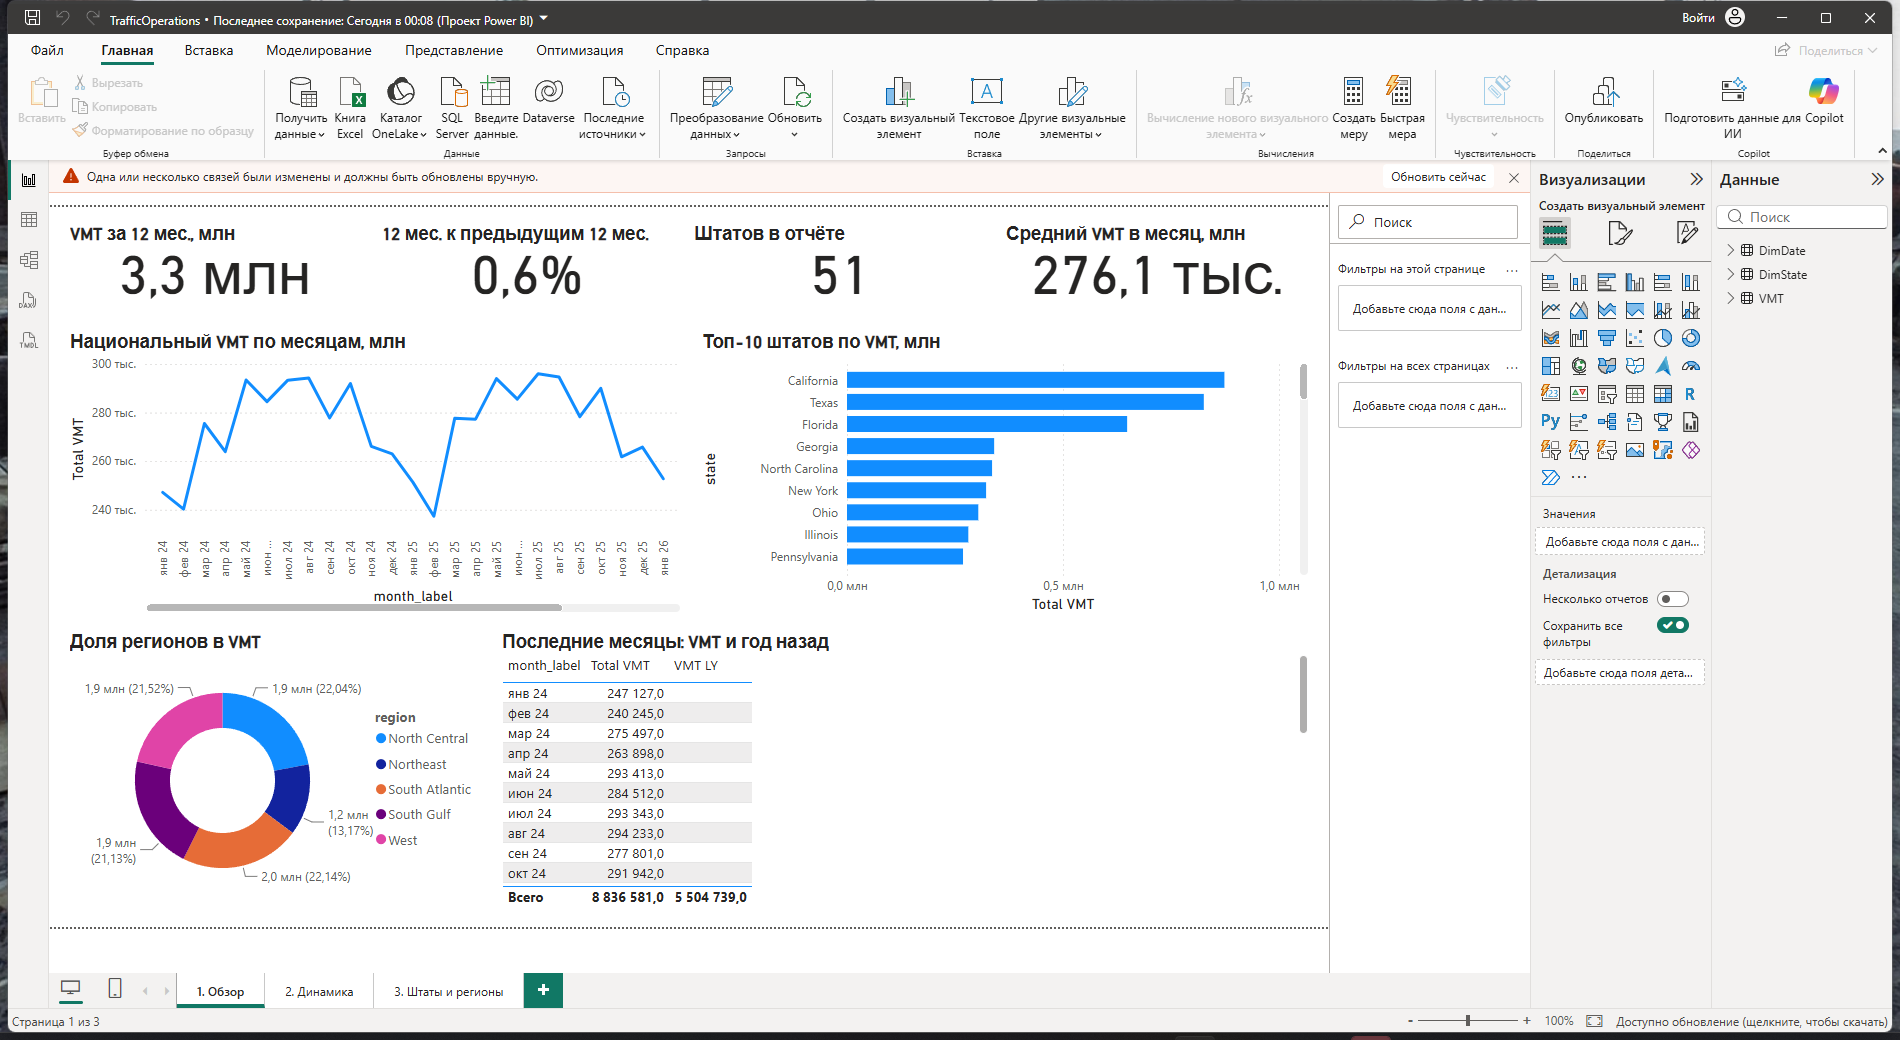
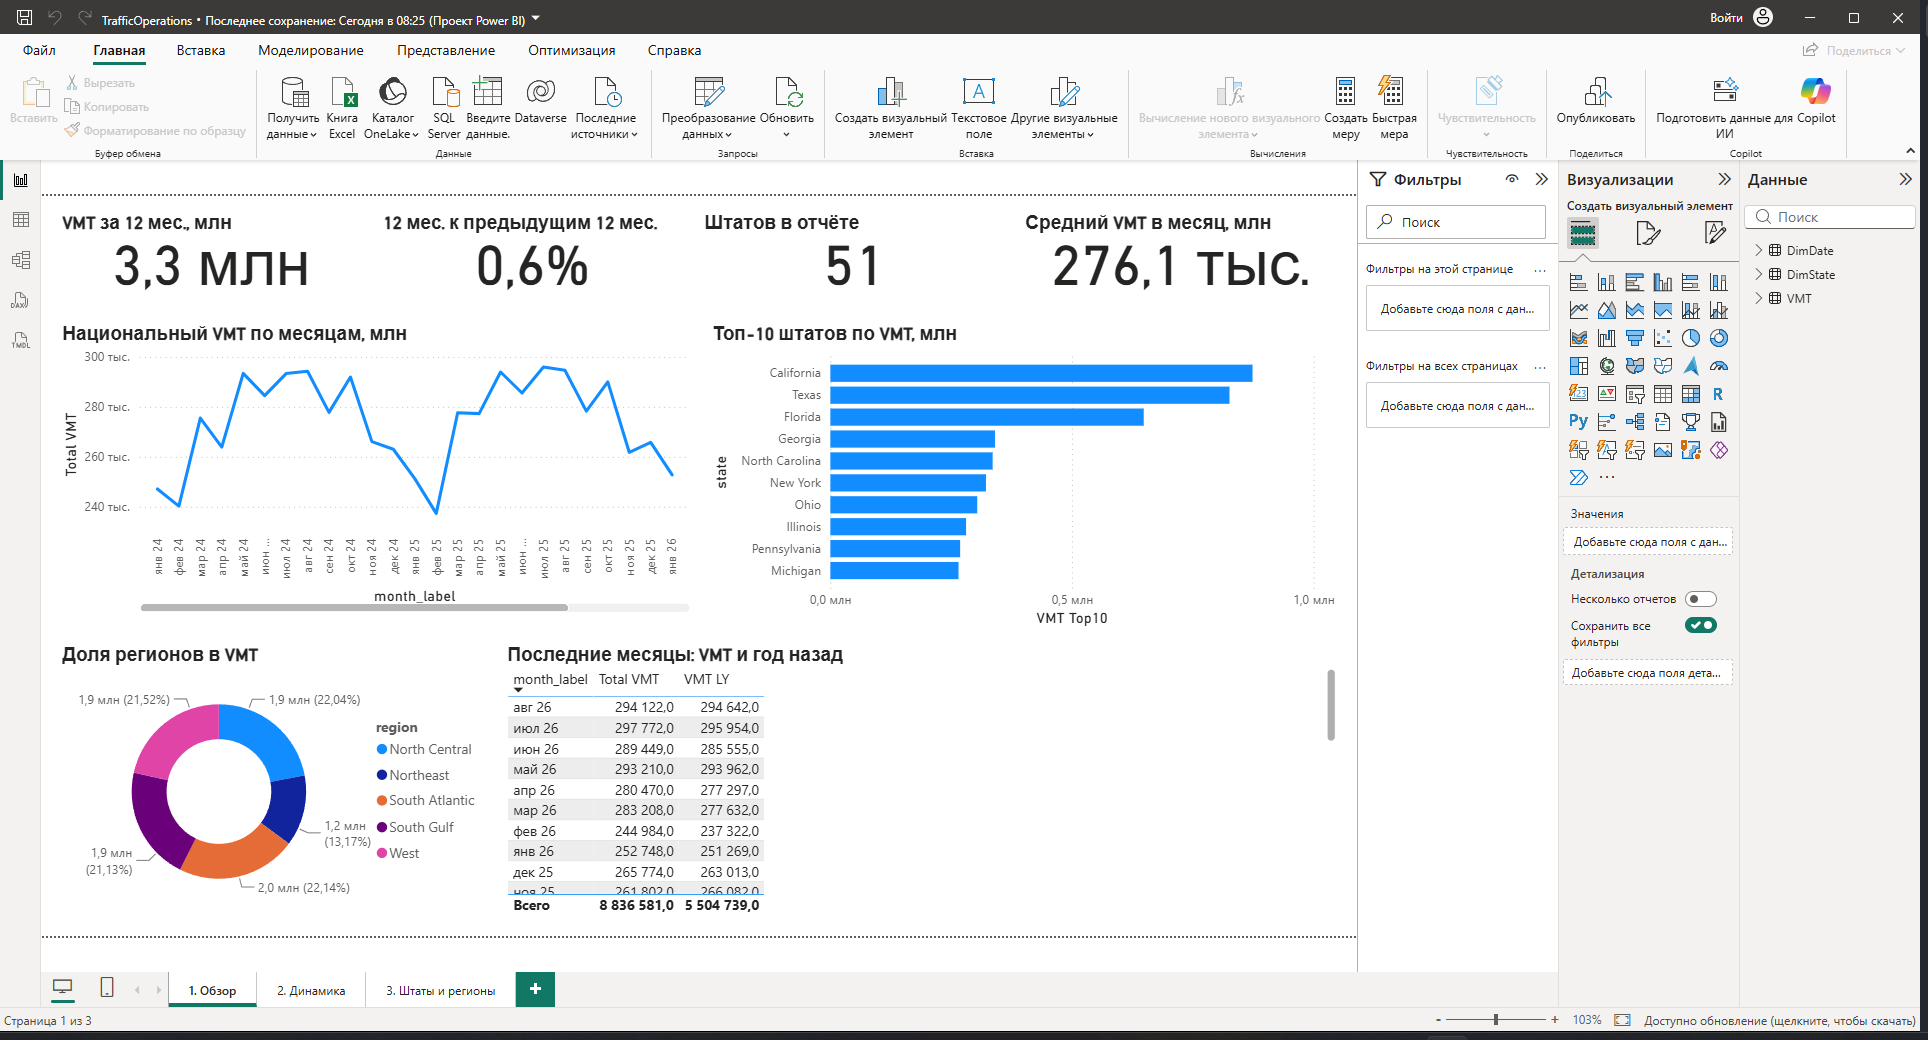
Fix model relationships, Top-10 visual, month ordering and rolling-window blanks

diff --git a/scripts/generate_pbip.py b/scripts/generate_pbip.py
@@ -150,7 +150,7 @@ def build_pages() -> list[dict]:
         [
             visual("v01", "card", 16, 16, 300, 92,
                    {"Values": [measure("VMT L12M", "VMT за 12 мес., млн")]},
-                   "VMT за последние 12 месяцев, млн"),
+                   "VMT за 12 мес., млн"),
             visual("v02", "card", 328, 16, 300, 92,
                    {"Values": [measure("VMT YoY %", "YoY, %", "0.0%")]},
                    "12 мес. к предыдущим 12 мес."),
@@ -163,17 +163,20 @@ def build_pages() -> list[dict]:
             visual("v05", "lineChart", 16, 124, 620, 286,
                    {"Category": [month_axis], "Y": [measure("Total VMT", "VMT, млн")]},
                    "Национальный VMT по месяцам, млн"),
-            visual("v06", "clusteredBarChart", 648, 124, 616, 286,
-                   {"Category": [state_axis], "Y": [measure("Total VMT", "VMT, млн")]},
-                   "Топ-10 штатов по VMT, млн", sort=sort_by("Total VMT"), show_legend=False),
-            visual("v07", "donutChart", 16, 424, 420, 280,
+            visual("v06", "clusteredBarChart", 648, 124, 616, 300,
+                   {"Category": [state_axis], "Y": [measure("VMT Top10", "VMT, млн")]},
+                   "Топ-10 штатов по VMT, млн", sort=sort_by("VMT Top10"), show_legend=False),
+            visual("v07", "donutChart", 16, 436, 420, 268,
                    {"Category": [region_axis], "Y": [measure("Total VMT", "VMT, млн")]},
                    "Доля регионов в VMT"),
-            visual("v08", "tableEx", 448, 424, 816, 280,
+            visual("v08", "tableEx", 448, 436, 816, 268,
                    {"Values": [col("DimDate", "month_label", active=False),
                                measure("Total VMT", "VMT, млн"),
                                measure("VMT LY", "VMT год назад, млн")]},
-                   "Последние месяцы: VMT и год назад", hide_total=True),
+                   "Последние месяцы: VMT и год назад", hide_total=True,
+                   sort={"field": {"Column": {"Expression": {"SourceRef": {"Entity": "DimDate"}},
+                                              "Property": "month_label"}},
+                         "direction": "Descending"}),
         ],
     )
 
@@ -207,7 +210,7 @@ def build_pages() -> list[dict]:
                                measure("Total VMT", "VMT, млн"),
                                measure("VMT YoY %", "YoY, %", "0.0%"),
                                measure("VMT Share", "Доля в VMT", "0.0%")]},
-                   "Штаты: объём, динамика, доля"),
+                   "Штаты: объём, динамика, доля", sort=sort_by("Total VMT")),
             visual("v14", "clusteredBarChart", 296, 424, 968, 280,
                    {"Category": [state_axis], "Y": [measure("VMT YoY %", "YoY, %", "0.0%")]},
                    "Рост год к году по штатам, %", sort=sort_by("VMT YoY %"), show_legend=False),
@@ -233,10 +236,17 @@ def tmdl_column(name: str, data_type: str, source: str | None = None, fmt: str |
 MEASURES = [
     ("Total VMT", "SUM ( VMT[vmt_millions] )", "#,0.0"),
     ("VMT L12M",
-     "CALCULATE ( [Total VMT], DATESINPERIOD ( DimDate[date], MAX ( VMT[month] ), -12, MONTH ) )",
+     "VAR EndMonth = MAX ( VMT[month] ) "
+     "VAR Period = DATESINPERIOD ( DimDate[date], EndMonth, -12, MONTH ) "
+     "VAR MonthsWithData = CALCULATE ( DISTINCTCOUNT ( VMT[month] ), Period ) "
+     "RETURN IF ( MonthsWithData < 12, BLANK (), CALCULATE ( [Total VMT], Period ) )",
      "#,0.0"),
     ("VMT Prev12M",
-     "CALCULATE ( [Total VMT], DATESINPERIOD ( DimDate[date], MAX ( VMT[month] ), -24, MONTH ) ) - [VMT L12M]",
+     "VAR EndMonth = MAX ( VMT[month] ) "
+     "VAR Period = DATESINPERIOD ( DimDate[date], EndMonth, -24, MONTH ) "
+     "VAR MonthsWithData = CALCULATE ( DISTINCTCOUNT ( VMT[month] ), Period ) "
+     "RETURN IF ( MonthsWithData < 24, BLANK (), "
+     "CALCULATE ( [Total VMT], Period ) - [VMT L12M] )",
      "#,0.0"),
     ("VMT YoY %", "DIVIDE ( [VMT L12M] - [VMT Prev12M], [VMT Prev12M] )", "0.0%"),
     ("VMT YoY Month %", "DIVIDE ( [Total VMT] - [VMT LY], [VMT LY] )", "0.0%"),
@@ -245,6 +255,10 @@ MEASURES = [
     ("States Reporting", "DISTINCTCOUNT ( VMT[state] )", "#,0"),
     ("VMT Seasonality", "DIVIDE ( [Total VMT], CALCULATE ( [Total VMT], ALL ( DimDate ) ) )", "0.0%"),
     ("VMT Share", "DIVIDE ( [Total VMT], CALCULATE ( [Total VMT], ALLSELECTED ( DimState ) ) )", "0.0%"),
+    ("VMT Top10",
+     "VAR StateRank = RANKX ( ALLSELECTED ( DimState[state] ), [Total VMT] ) "
+     "RETURN IF ( StateRank <= 10, [Total VMT] )",
+     "#,0.0"),
     ("Monitoring Stations", "SUM ( VMT[stations] )", "#,0"),
 ]
 
@@ -352,10 +366,17 @@ def build_model() -> None:
     (model_dir / "relationships.tmdl").write_text(
         "relationship " + tag() + "\n"
         "\tfromColumn: VMT.month\n"
-        "\ttoColumn: DimDate.date\n\n"
+        "\ttoColumn: DimDate.date\n"
+        "\tfromCardinality: many\n"
+        "\ttoCardinality: one\n"
+        "\tcrossFilteringBehavior: oneDirection\n"
+        "\n"
         "relationship " + tag() + "\n"
         "\tfromColumn: VMT.state\n"
-        "\ttoColumn: DimState.state\n",
+        "\ttoColumn: DimState.state\n"
+        "\tfromCardinality: many\n"
+        "\ttoCardinality: one\n"
+        "\tcrossFilteringBehavior: oneDirection\n",
         encoding="utf-8",
     )
 

diff --git a/docs/measures.md b/docs/measures.md
@@ -22,18 +22,22 @@ Power Query: каждый источник читается как `Csv.Document
 | Мера | DAX | Зачем |
 |---|---|---|
 | `Total VMT` | `SUM ( VMT[vmt_millions] )` | Базовый объём в текущем фильтре |
-| `VMT L12M` | `CALCULATE ( [Total VMT], DATESINPERIOD ( DimDate[date], MAX ( VMT[month] ), -12, MONTH ) )` | Последние 12 месяцев от последнего месяца с данными, а не от конца календаря |
-| `VMT Prev12M` | `CALCULATE ( [Total VMT], DATESINPERIOD ( DimDate[date], MAX ( VMT[month] ), -24, MONTH ) ) - [VMT L12M]` | Предыдущие 12 месяцев |
+| `VMT L12M` | окно `DATESINPERIOD` на 12 месяцев от `MAX ( VMT[month] )`; `BLANK()`, если в окне меньше 12 месяцев с данными | Последние 12 месяцев от последнего месяца с данными, а не от конца календаря |
+| `VMT Prev12M` | то же окно на 24 месяца минус `[VMT L12M]`; `BLANK()`, если данных меньше 24 месяцев | Предыдущие 12 месяцев |
 | `VMT YoY %` | `DIVIDE ( [VMT L12M] - [VMT Prev12M], [VMT Prev12M] )` | Сравнение двух полных окон; на карточке «Обзор» |
 | `VMT LY` | `CALCULATE ( [Total VMT], SAMEPERIODLASTYEAR ( DimDate[date] ) )` | Тот же месяц год назад |
 | `VMT YoY Month %` | `DIVIDE ( [Total VMT] - [VMT LY], [VMT LY] )` | Месяц к тому же месяцу прошлого года; линия на «Динамике» |
 | `Avg Monthly VMT` | `AVERAGEX ( VALUES ( DimDate[date] ), [Total VMT] )` | Средний месяц в фильтре |
 | `States Reporting` | `DISTINCTCOUNT ( VMT[state] )` | Покрытие: сколько штатов вернуло данные |
 | `VMT Share` | `DIVIDE ( [Total VMT], CALCULATE ( [Total VMT], ALLSELECTED ( DimState ) ) )` | Доля штата в выбранных регионах |
+| `VMT Top10` | `RANKX ( ALLSELECTED ( DimState[state] ), [Total VMT] )`; значение возвращается только для первых десяти штатов | Ровно 10 штатов в рейтинге, без прокрутки |
 
 `VMT Seasonality` и `Monitoring Stations` (сумма `stations`) описаны в модели
 как вспомогательные; в отчёт они не выведены, чтобы не создавать ложного
 впечатления, что число постов учёта равно интенсивности.
+
+Неполные окна дают `BLANK()`, поэтому линия «Скользящее окно 12 месяцев»
+начинается только там, где наблюдений действительно хватает на полный год.
 
 ## Почему год к году считается двумя окнами
 
